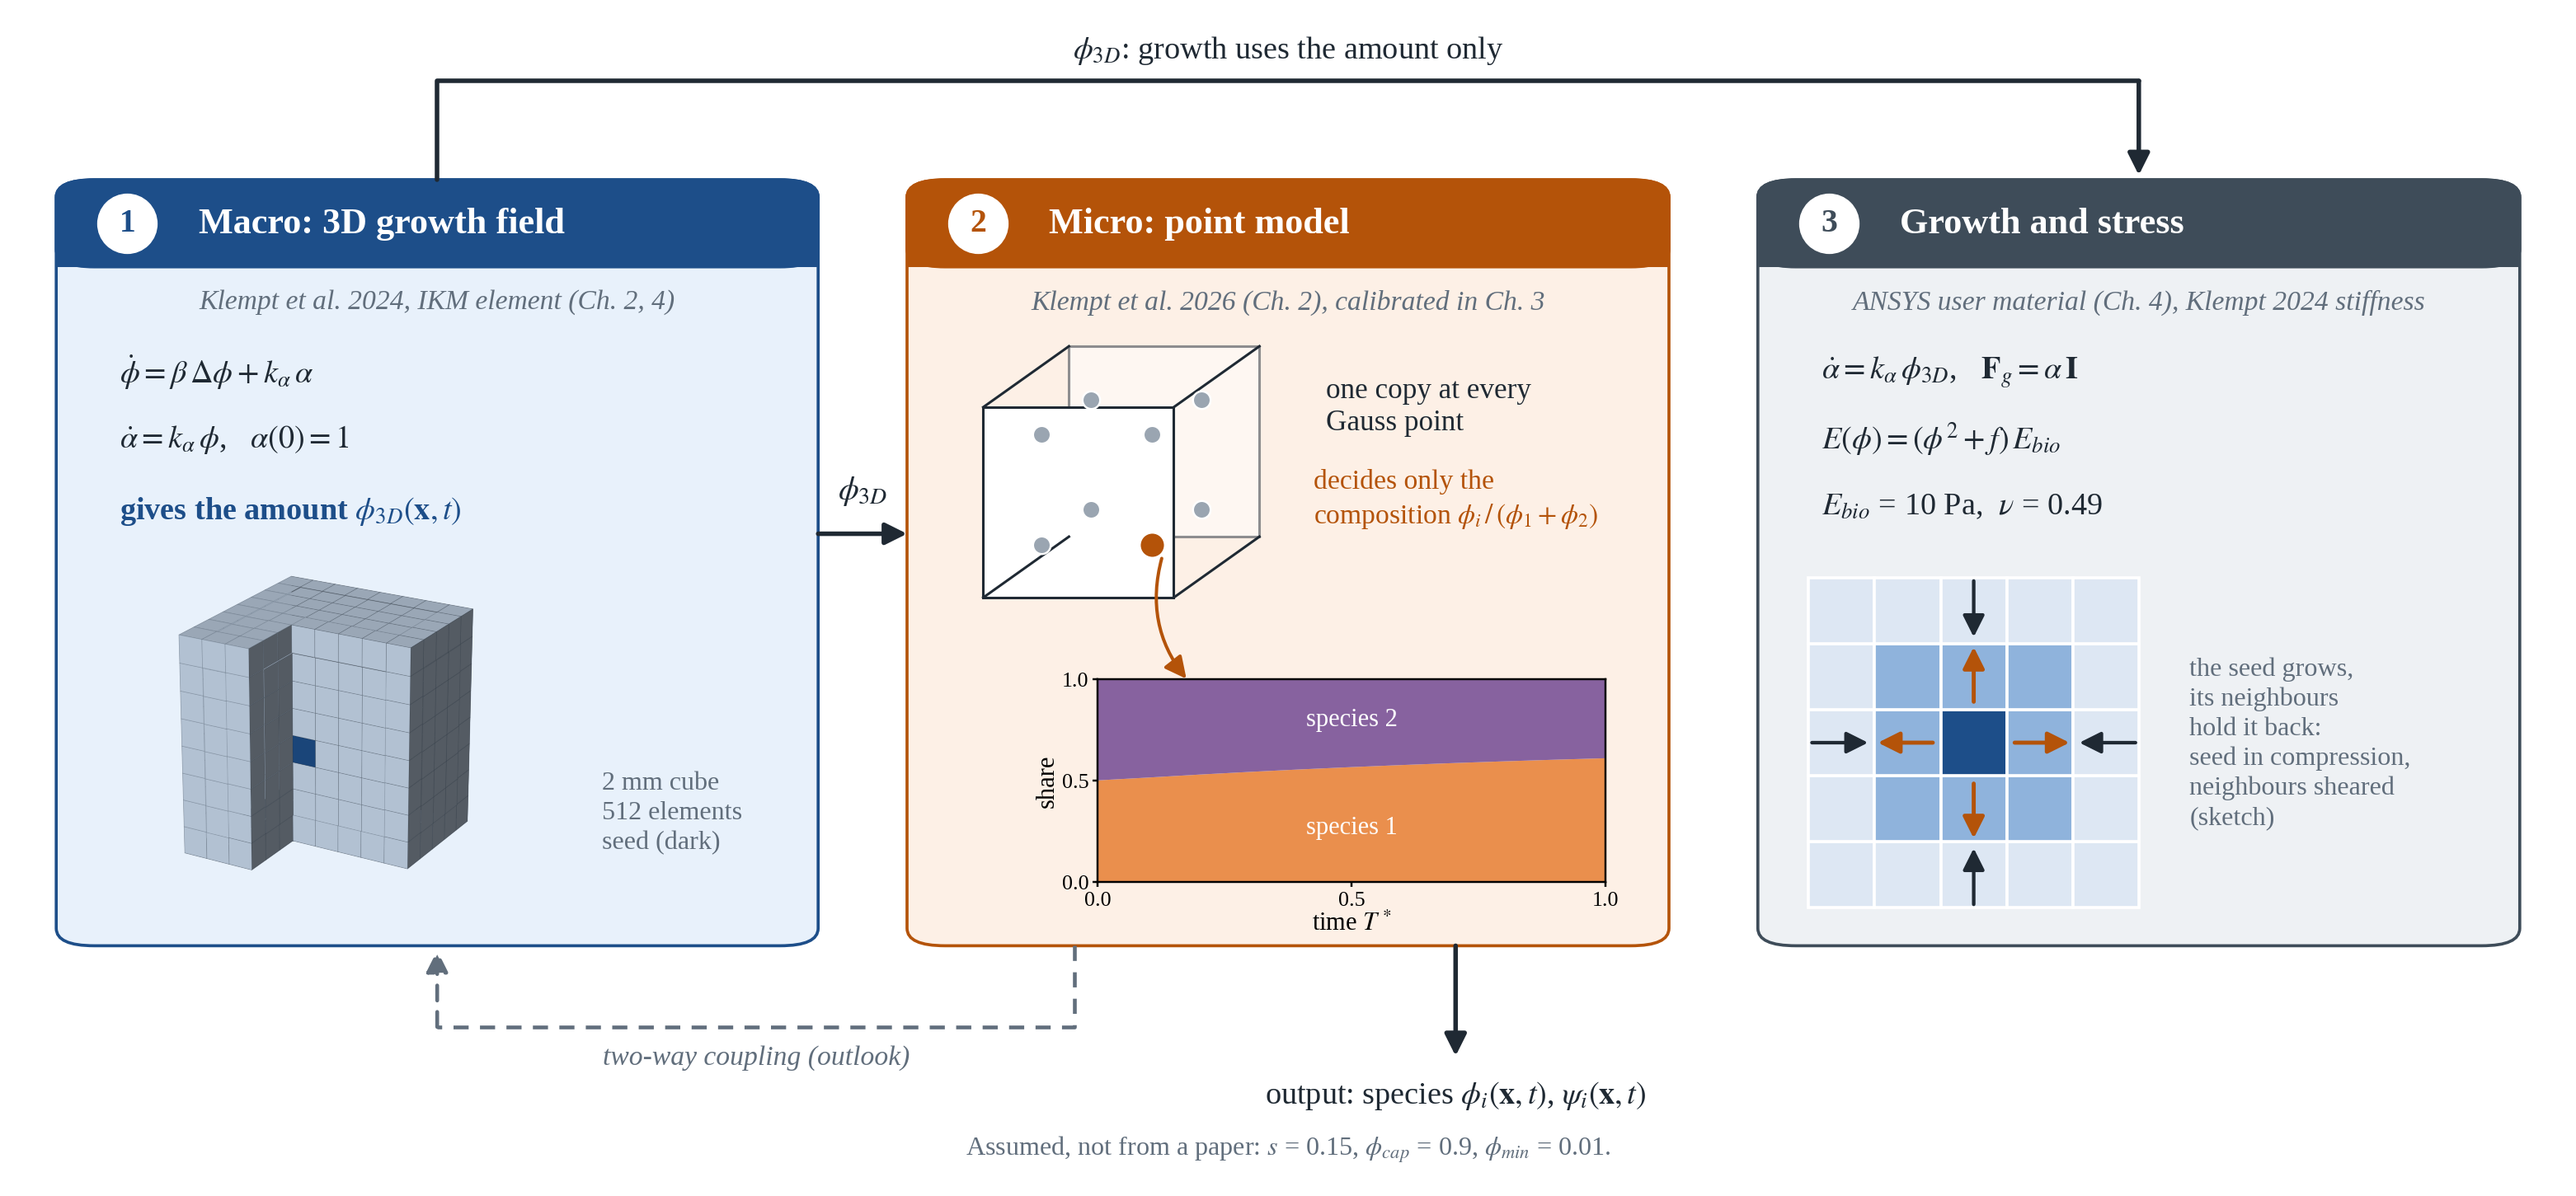
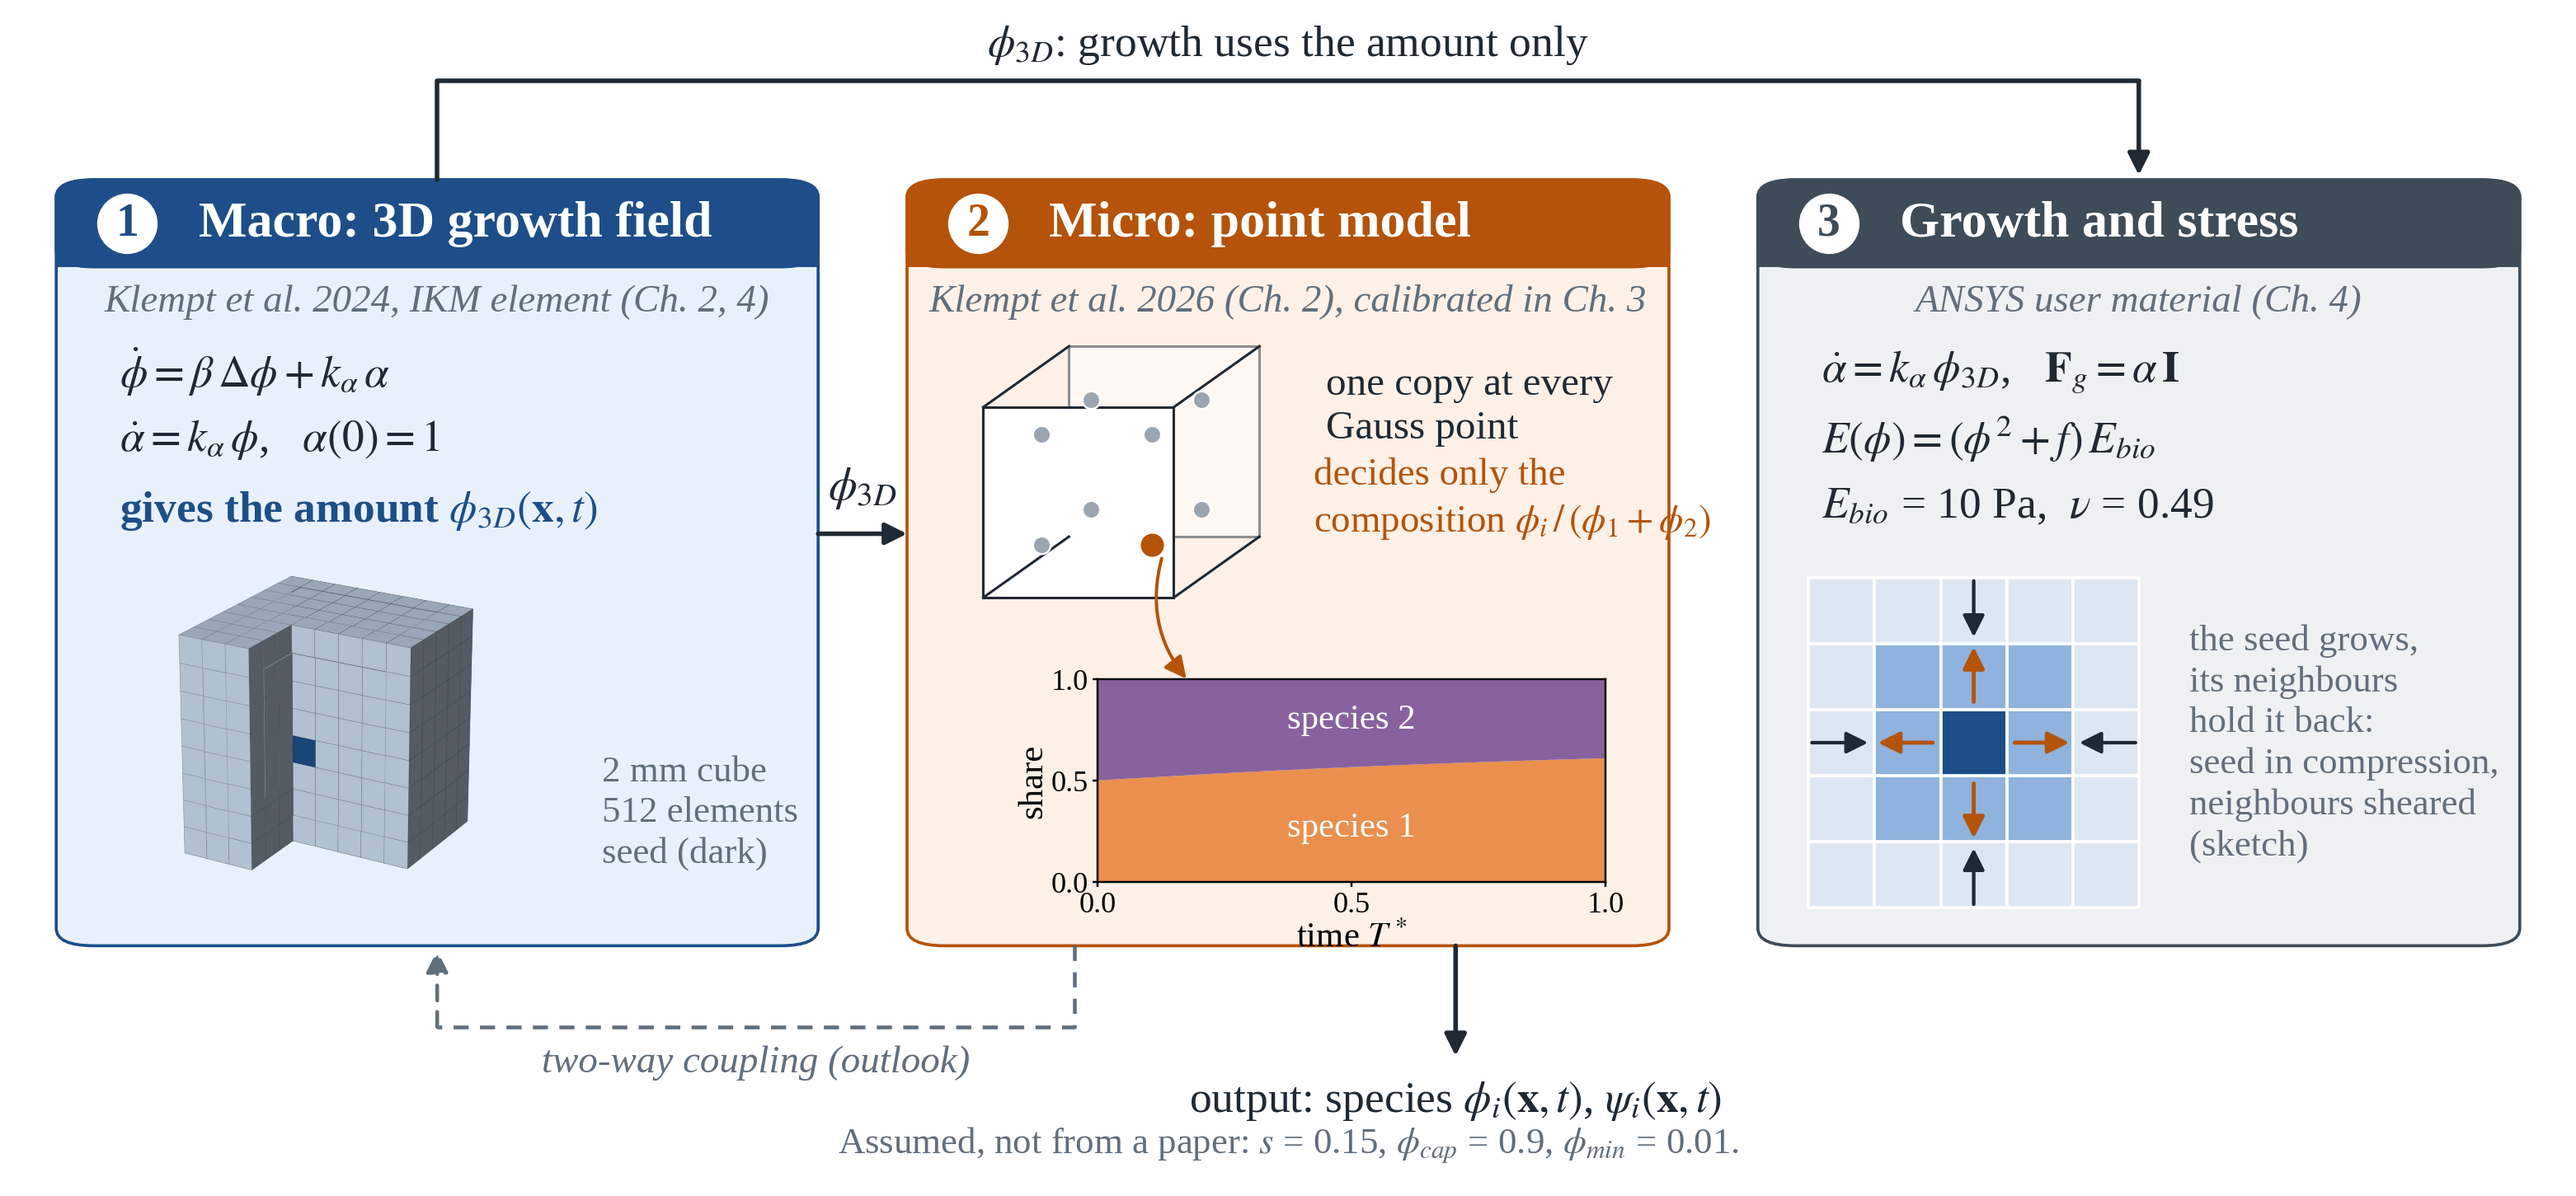
Thesis: Figure 1.1 upright at text width, schematic text enlarged
The overview was a sideways figure. It is now an ordinary full-width figure;
coupling_schematic.py scales its fonts by 1.4 in thesis mode and shortens
the subtitle of panel 3 so the text stays readable at 14.5 cm width.

diff --git a/ansys_usermat/coupling_schematic.py b/ansys_usermat/coupling_schematic.py
@@ -60,17 +60,17 @@ def panel(ax, key, num, title, subtitle):
                                 fc=accent, ec=accent, lw=1.2, zorder=2))
     ax.add_patch(Rectangle((x, Y0 + H - HEAD), w, HEAD / 2, fc=accent, ec="none", zorder=2))
     ax.plot(x + 0.028, Y0 + H - HEAD / 2, "o", ms=24, mfc="white", mec="none", zorder=3)
-    ax.text(x + 0.028, Y0 + H - HEAD / 2, num, ha="center", va="center", fontsize=13,
+    ax.text(x + 0.028, Y0 + H - HEAD / 2, num, ha="center", va="center", fontsize=13 * FS,
             weight="bold", color=accent, zorder=4)
-    ax.text(x + 0.056, Y0 + H - HEAD / 2, title, ha="left", va="center", fontsize=14.5,
+    ax.text(x + 0.056, Y0 + H - HEAD / 2, title, ha="left", va="center", fontsize=14.5 * FS,
             weight="bold", color="white", zorder=4)
     ax.text(x + w / 2, Y0 + H - HEAD - 0.03, subtitle, ha="center", va="center",
-            fontsize=11, style="italic", color=MUTED, zorder=4)
+            fontsize=11 * FS, style="italic", color=MUTED, zorder=4)
 
 
 def eqs(ax, x, y, lines, size=12.5, gap=0.058):
     for k, s in enumerate(lines):
-        ax.text(x, y - k * gap, s, ha="left", va="center", fontsize=size, color=INK, zorder=4)
+        ax.text(x, y - k * gap, s, ha="left", va="center", fontsize=size * FS, color=INK, zorder=4)
 
 
 def arrow(ax, p, q, color=INK, ls="-", lw=1.8, conn="arc3", z=5):
@@ -134,11 +134,11 @@ def chi_inset(fig, rect):
     ax.grid(False)
     for s in ("top", "right"):
         ax.spines[s].set_visible(True)
-    ax.set_xlabel(r"time $T^*$", fontsize=10, labelpad=1)
-    ax.set_ylabel("share", fontsize=10, labelpad=1)
-    ax.tick_params(labelsize=8.5, length=2, pad=1.5)
-    ax.text(0.5, 0.27, "species 1", ha="center", va="center", fontsize=10, color="white")
-    ax.text(0.5, 0.80, "species 2", ha="center", va="center", fontsize=10, color="white")
+    ax.set_xlabel(r"time $T^*$", fontsize=10 * FS, labelpad=1)
+    ax.set_ylabel("share", fontsize=10 * FS, labelpad=1)
+    ax.tick_params(labelsize=8.5 * FS, length=2, pad=1.5)
+    ax.text(0.5, 0.27, "species 1", ha="center", va="center", fontsize=10 * FS, color="white")
+    ax.text(0.5, 0.80, "species 2", ha="center", va="center", fontsize=10 * FS, color="white")
     return ax
 
 
@@ -160,7 +160,12 @@ def stress_sketch(ax, cx, cy, h):
         arrow(ax, c + v * 2.45 * h, c + v * 1.6 * h, color=INK, lw=1.4, z=6)
 
 
+FS = 1.0   # font scale; the thesis prints the figure at text width, so its text is enlarged
+
+
 def main(keio=False, thesis=False):
+    global FS
+    FS = 1.4 if thesis else 1.0
     figstyle.apply(12)
     fig = plt.figure(figsize=(14, 6.4))
     ax = fig.add_axes([0, 0, 1, 1])
@@ -178,9 +183,9 @@ def main(keio=False, thesis=False):
         r"$\dot\alpha = k_\alpha\,\phi$,   $\alpha(0) = 1$",
     ])
     ax.text(x + 0.025, 0.575, r"gives the amount $\phi_{3D}(\mathbf{x},t)$",
-            fontsize=12.5, color=PANEL["macro"][1], weight="bold", va="center", zorder=4)
+            fontsize=12.5 * FS, color=PANEL["macro"][1], weight="bold", va="center", zorder=4)
     cube_inset(fig, [x + 0.005, 0.205, 0.20, 0.35])
-    ax.text(x + 0.215, 0.315, "2 mm cube\n512 elements\nseed (dark)", fontsize=10.5,
+    ax.text(x + 0.215, 0.315, "2 mm cube\n512 elements\nseed (dark)", fontsize=10.5 * FS,
             color=MUTED, va="center", linespacing=1.3, zorder=4)
 
     # (2) micro --------------------------------------------------------------
@@ -188,17 +193,17 @@ def main(keio=False, thesis=False):
           "Klempt et al. 2026 (Ch. 2), calibrated in Ch. 3" if thesis else "Klempt et al. 2026, Table 1 cases")
     x, w = PX["micro"]
     hot = element_with_gauss_points(ax, x + 0.03, 0.50, 0.075)
-    ax.text(x + 0.165, 0.665, "one copy at every\nGauss point", fontsize=11.5, color=INK,
+    ax.text(x + 0.165, 0.665, "one copy at every\nGauss point", fontsize=11.5 * FS, color=INK,
             va="center", linespacing=1.25, zorder=4)
     ax.text(x + 0.16, 0.585, r"decides only the" "\n" r"composition $\phi_i\,/\,(\phi_1 + \phi_2)$",
-            fontsize=11, color=PANEL["micro"][1], va="center", linespacing=1.35, zorder=4)
+            fontsize=11 * FS, color=PANEL["micro"][1], va="center", linespacing=1.35, zorder=4)
     arrow(ax, (hot[0] + 0.004, hot[1] - 0.012), (x + 0.11, 0.43), color=PANEL["micro"][1],
           lw=1.3, conn="arc3,rad=0.25")
     chi_inset(fig, [x + 0.075, 0.255, 0.20, 0.175])
 
     # (3) growth and stress --------------------------------------------------
     panel(ax, "mech", "3", "Growth and stress",
-          "ANSYS user material (Ch. 4), Klempt 2024 stiffness" if thesis
+          "ANSYS user material (Ch. 4)" if thesis
           else "partner's element, Klempt 2024 stiffness")
     x, w = PX["mech"]
     eqs(ax, x + 0.025, 0.695, [
@@ -208,30 +213,30 @@ def main(keio=False, thesis=False):
     ])
     stress_sketch(ax, x + 0.085, 0.375, 0.026)
     ax.text(x + 0.17, 0.375, "the seed grows,\nits neighbours\nhold it back:\nseed in compression,\n"
-            "neighbours sheared\n(sketch)", fontsize=10.5, color=MUTED, va="center", linespacing=1.3,
+            "neighbours sheared\n(sketch)", fontsize=10.5 * FS, color=MUTED, va="center", linespacing=1.3,
             zorder=4)
 
     # connections ------------------------------------------------------------
     y_mid = 0.555
     arrow(ax, (PX["macro"][0] + PX["macro"][1], y_mid), (PX["micro"][0], y_mid))
-    ax.text(0.3325, y_mid + 0.03, r"$\phi_{3D}$", ha="center", fontsize=13, color=INK)
+    ax.text(0.3325, y_mid + 0.03, r"$\phi_{3D}$", ha="center", fontsize=13 * FS, color=INK)
     xa = PX["macro"][0] + PX["macro"][1] / 2
     xc = PX["mech"][0] + PX["mech"][1] / 2
     ax.plot([xa, xa, xc], [Y0 + H, 0.945, 0.945], color=INK, lw=1.8, zorder=5,
             solid_capstyle="round")
     arrow(ax, (xc, 0.945), (xc, Y0 + H + 0.004))
     ax.text(0.5, 0.958, r"$\phi_{3D}$: growth uses the amount only", ha="center",
-            va="bottom", fontsize=12.5, color=INK)
+            va="bottom", fontsize=12.5 * FS, color=INK)
     xm = PX["micro"][0] + PX["micro"][1] * 0.72
     arrow(ax, (xm, Y0), (xm, 0.105))
     ax.text(xm, 0.085, r"output: species $\phi_i(\mathbf{x},t)$, $\psi_i(\mathbf{x},t)$", ha="center",
-            va="top", fontsize=12.5, color=INK)
+            va="top", fontsize=12.5 * FS, color=INK)
     xb = PX["micro"][0] + PX["micro"][1] * 0.22
     ax.plot([xb, xb, xa], [Y0, 0.13, 0.13], color=MUTED, lw=1.5, ls=(0, (4, 3)), zorder=5)
     arrow(ax, (xa, 0.13), (xa, Y0 - 0.004), color=MUTED, ls=(0, (4, 3)), lw=1.5)
     ax.text((xa + xb) / 2, 0.115,
             "composition to growth (Keio)" if keio else "two-way coupling (outlook)",
-            ha="center", va="top", fontsize=11, color=MUTED, style="italic")
+            ha="center", va="top", fontsize=11 * FS, color=MUTED, style="italic")
 
     if keio:
         xs = PX["mech"][0] + PX["mech"][1] * 0.5
@@ -239,7 +244,7 @@ def main(keio=False, thesis=False):
         ax.plot([xs, xs, xf], [Y0, 0.03, 0.03], color=KEIO, lw=1.8, ls=(0, (4, 3)), zorder=5)
         arrow(ax, (xf, 0.03), (xf, Y0 - 0.004), color=KEIO, ls=(0, (4, 3)), lw=1.8)
         ax.text((xs + xf) / 2, 0.018, "stress to growth (Keio): the mechanical term of Klempt 2024, Eq. 30",
-                ha="center", va="top", fontsize=11, color=KEIO, style="italic")
+                ha="center", va="top", fontsize=11 * FS, color=KEIO, style="italic")
         out = OUT.with_name("fig_coupling_schematic_keio.png")
         fig.savefig(out, dpi=220, bbox_inches="tight", facecolor="white")
         print("wrote", out)
@@ -247,7 +252,7 @@ def main(keio=False, thesis=False):
 
     if thesis:
         ax.text(0.5, 0.012, r"Assumed, not from a paper: $s$ = 0.15, $\phi_{cap}$ = 0.9, $\phi_{min}$ = 0.01.",
-                ha="center", va="bottom", fontsize=10.5, color=MUTED)
+                ha="center", va="bottom", fontsize=10.5 * FS, color=MUTED)
         out = OUT.with_name("fig_coupling_schematic_thesis.png")
         fig.savefig(out, dpi=220, bbox_inches="tight", facecolor="white")
         print("wrote", out)
@@ -257,7 +262,7 @@ def main(keio=False, thesis=False):
             r"Point model run two ways: A) rescaled every step to $\phi_{3D}$;  "
             r"B) started when $\phi_{3D}$ first reaches $\phi_{min}$, then independent.   "
             r"Assumed, not from a paper: $s$ = 0.15, $\phi_{cap}$ = 0.9, $\phi_{min}$ = 0.01.",
-            ha="center", va="bottom", fontsize=10.5, color=MUTED)
+            ha="center", va="bottom", fontsize=10.5 * FS, color=MUTED)
 
     OUT.parent.mkdir(exist_ok=True)
     fig.savefig(OUT, dpi=220, bbox_inches="tight", facecolor="white")

diff --git a/thesis/chapters/ch1_introduction.tex b/thesis/chapters/ch1_introduction.tex
@@ -63,7 +63,7 @@ The framework is the biofilm element developed at the Institut für Kontinuumsme
 
 Figure~\ref{fig:intro_overview} shows how the parts fit together.
 
-\begin{sidewaysfigure}
+\begin{figure}[tbp]
   \centering
   \includegraphics[width=\linewidth]{\ansysfigdir fig_coupling_schematic_thesis.png}
   \caption[Overview of the coupling]{Overview of this work. (1) The growth
@@ -77,7 +77,7 @@ Figure~\ref{fig:intro_overview} shows how the parts fit together.
     coupling). The inset in (2) is computed for the coexistence case; the
     stress pattern in (3) is a sketch.}
   \label{fig:intro_overview}
-\end{sidewaysfigure}
+\end{figure}
 
 I make three contributions:
 \begin{enumerate}
